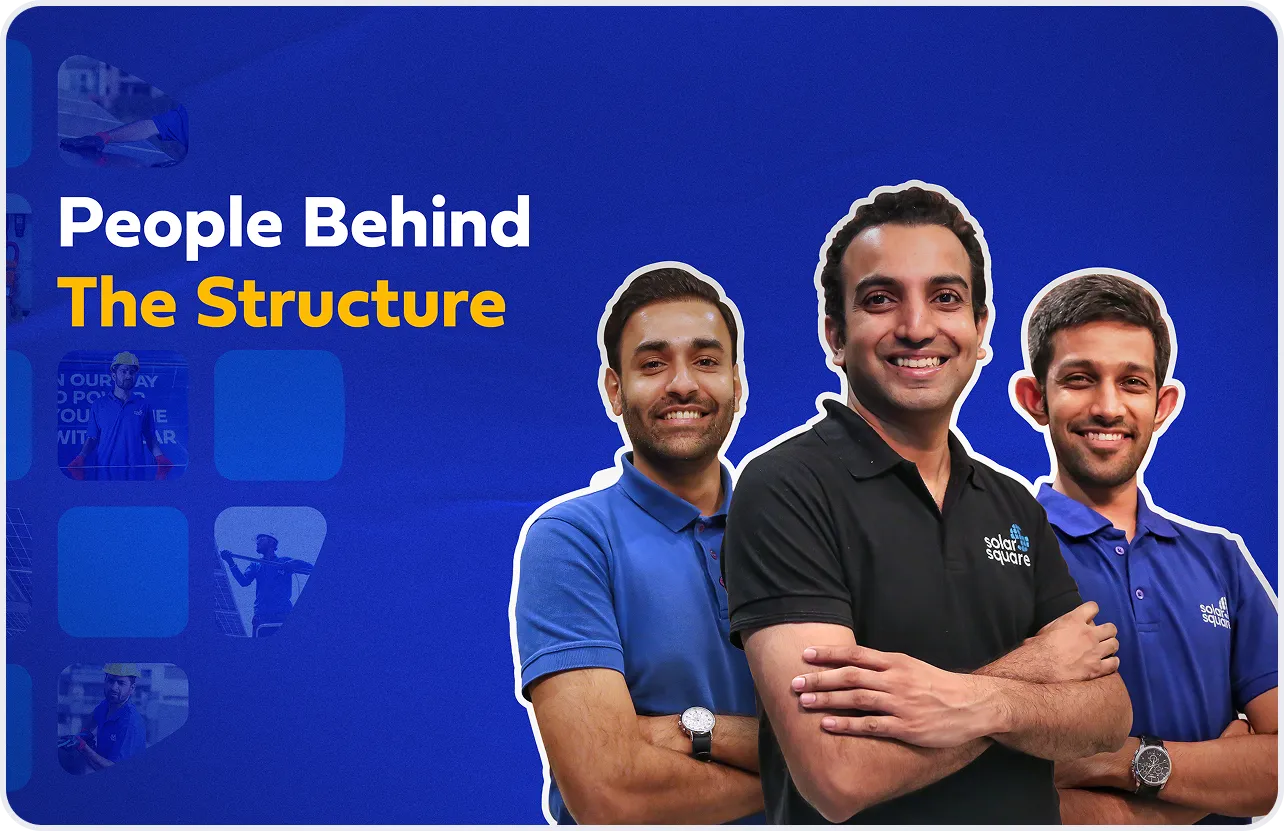
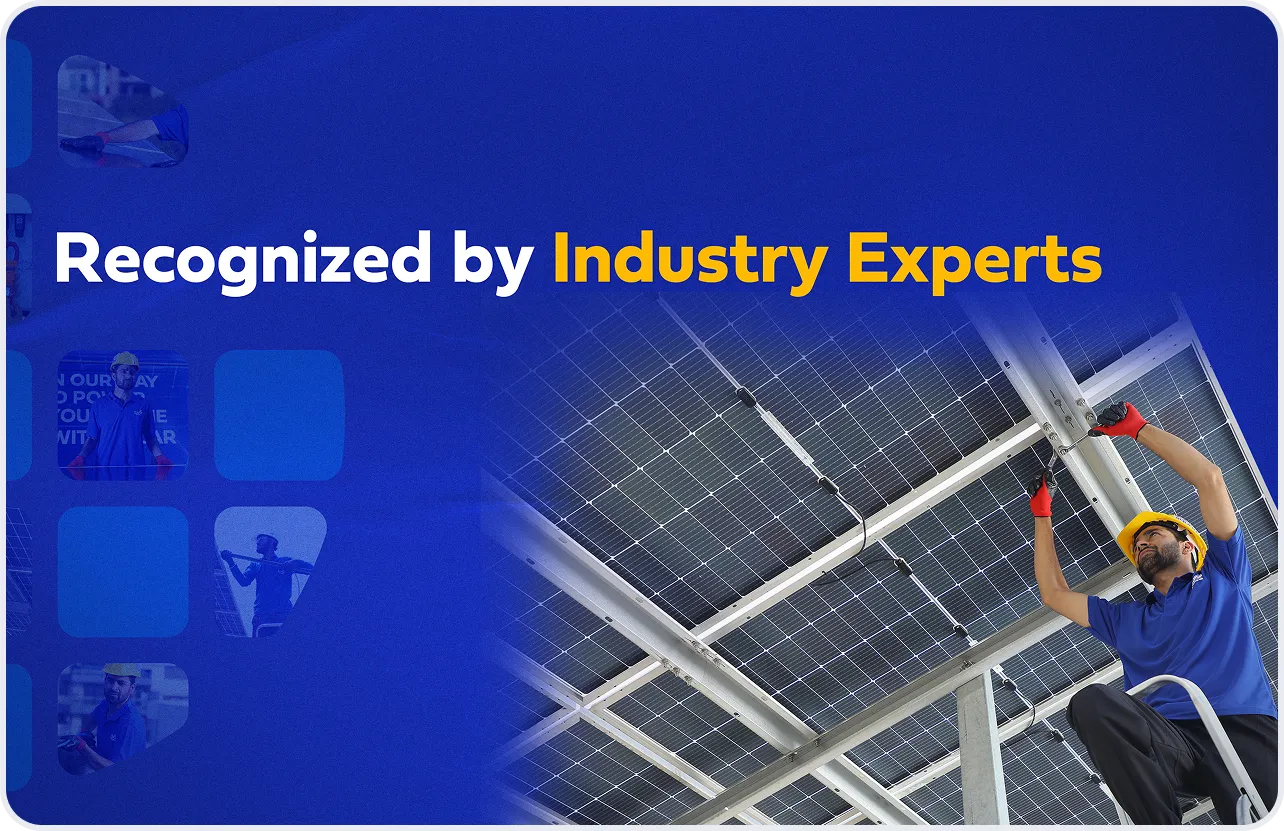
update: content and thumbnails

diff --git a/src/data/constant.tsx b/src/data/constant.tsx
@@ -176,11 +176,11 @@ export const EXPLORE_ROUTING: ExploreRoutingType[] = [
       headerData: {
         content: {
           title: [
-            { text: 'Recognised By' },
-            { text: 'Industry Experts', variant: 'blue' },
+            { text: 'What customers say after' },
+            { text: 'one year of storms', variant: 'blue' },
           ],
           description:
-            'See the certifications, awards, and bodies that endorse WindPro.',
+            'Hear real stories from families who trusted WindPro for their homes.',
         },
       },
       // pointerListData: {
@@ -229,11 +229,11 @@ export const EXPLORE_ROUTING: ExploreRoutingType[] = [
       headerData: {
         content: {
           title: [
-            { text: 'A Structure' },
-            { text: 'Built to Last', variant: 'blue' },
+            { text: 'Expertise you can' },
+            { text: 'trust', variant: 'blue' },
           ],
           description:
-            'Discover what makes WindPro the most reliable solar structure in India.',
+            'Meet the engineers & innovators who have built India’s safest solar structure',
         },
       },
       // pointerListData: {
@@ -262,7 +262,7 @@ export const EXPLORE_ROUTING: ExploreRoutingType[] = [
       //   ],
       // },
       videoData: {
-        src: '/videos/tile-stories-of-trust1.mp4',
+        src: '/videos/tile-people-behind-the-structure1.mp4',
         thumbnail: '/images/thumbnail/commitment.webp',
       },
     },
@@ -276,12 +276,12 @@ export const EXPLORE_ROUTING: ExploreRoutingType[] = [
       headerData: {
         content: {
           title: [
-            { text: 'What customers say after' },
-            { text: 'one year of storms', variant: 'blue' },
+            { text: 'Quality that wins' },
+            { text: 'appreciation', variant: 'blue' },
           ],
 
           description:
-            'Hear real stories from families who trusted WindPro for their homes.',
+            'See the certifications, awards & bodies that endorse WindPro',
         },
       },
       pointerListData: {
@@ -310,7 +310,7 @@ export const EXPLORE_ROUTING: ExploreRoutingType[] = [
         ],
       },
       videoData: {
-        src: '/videos/tile-people-behind-the-structure1.mp4',
+        src: '/videos/tile-stories-of-trust1.mp4',
         thumbnail: '/images/thumbnail/recognition.webp',
       },
     },

diff --git a/src/components/SolarPanel3d/index.tsx b/src/components/SolarPanel3d/index.tsx
@@ -208,7 +208,7 @@ const Plan3d = memo(({ modelUrl }: { modelUrl: string }) => {
         content={{
           title: [{ text: `India's Safest & Strongest Solar` }],
           description:
-            'See how smart design makes us stronger, safer, and more reliable than local structures.',
+            'Understand how weak structures cause long-term damage, leaks, and losses.',
         }}
         className="absolute top-0 z-30 w-full px-16 pt-4 [&>img:last-child]:opacity-0"
         style={{ zoom: 0.59 }}

diff --git a/src/hooks/useIdle.tsx b/src/hooks/useIdle.tsx
@@ -17,7 +17,7 @@ type UseIdleReturn = {
 
 const useIdle = ({
   onIdle,
-  timeout = 45000,
+  timeout = 450000000,
   autoStart = false,
 }: UseIdleOptions = {}): UseIdleReturn => {
   const [isIdle, setIsIdle] = useState(false);
